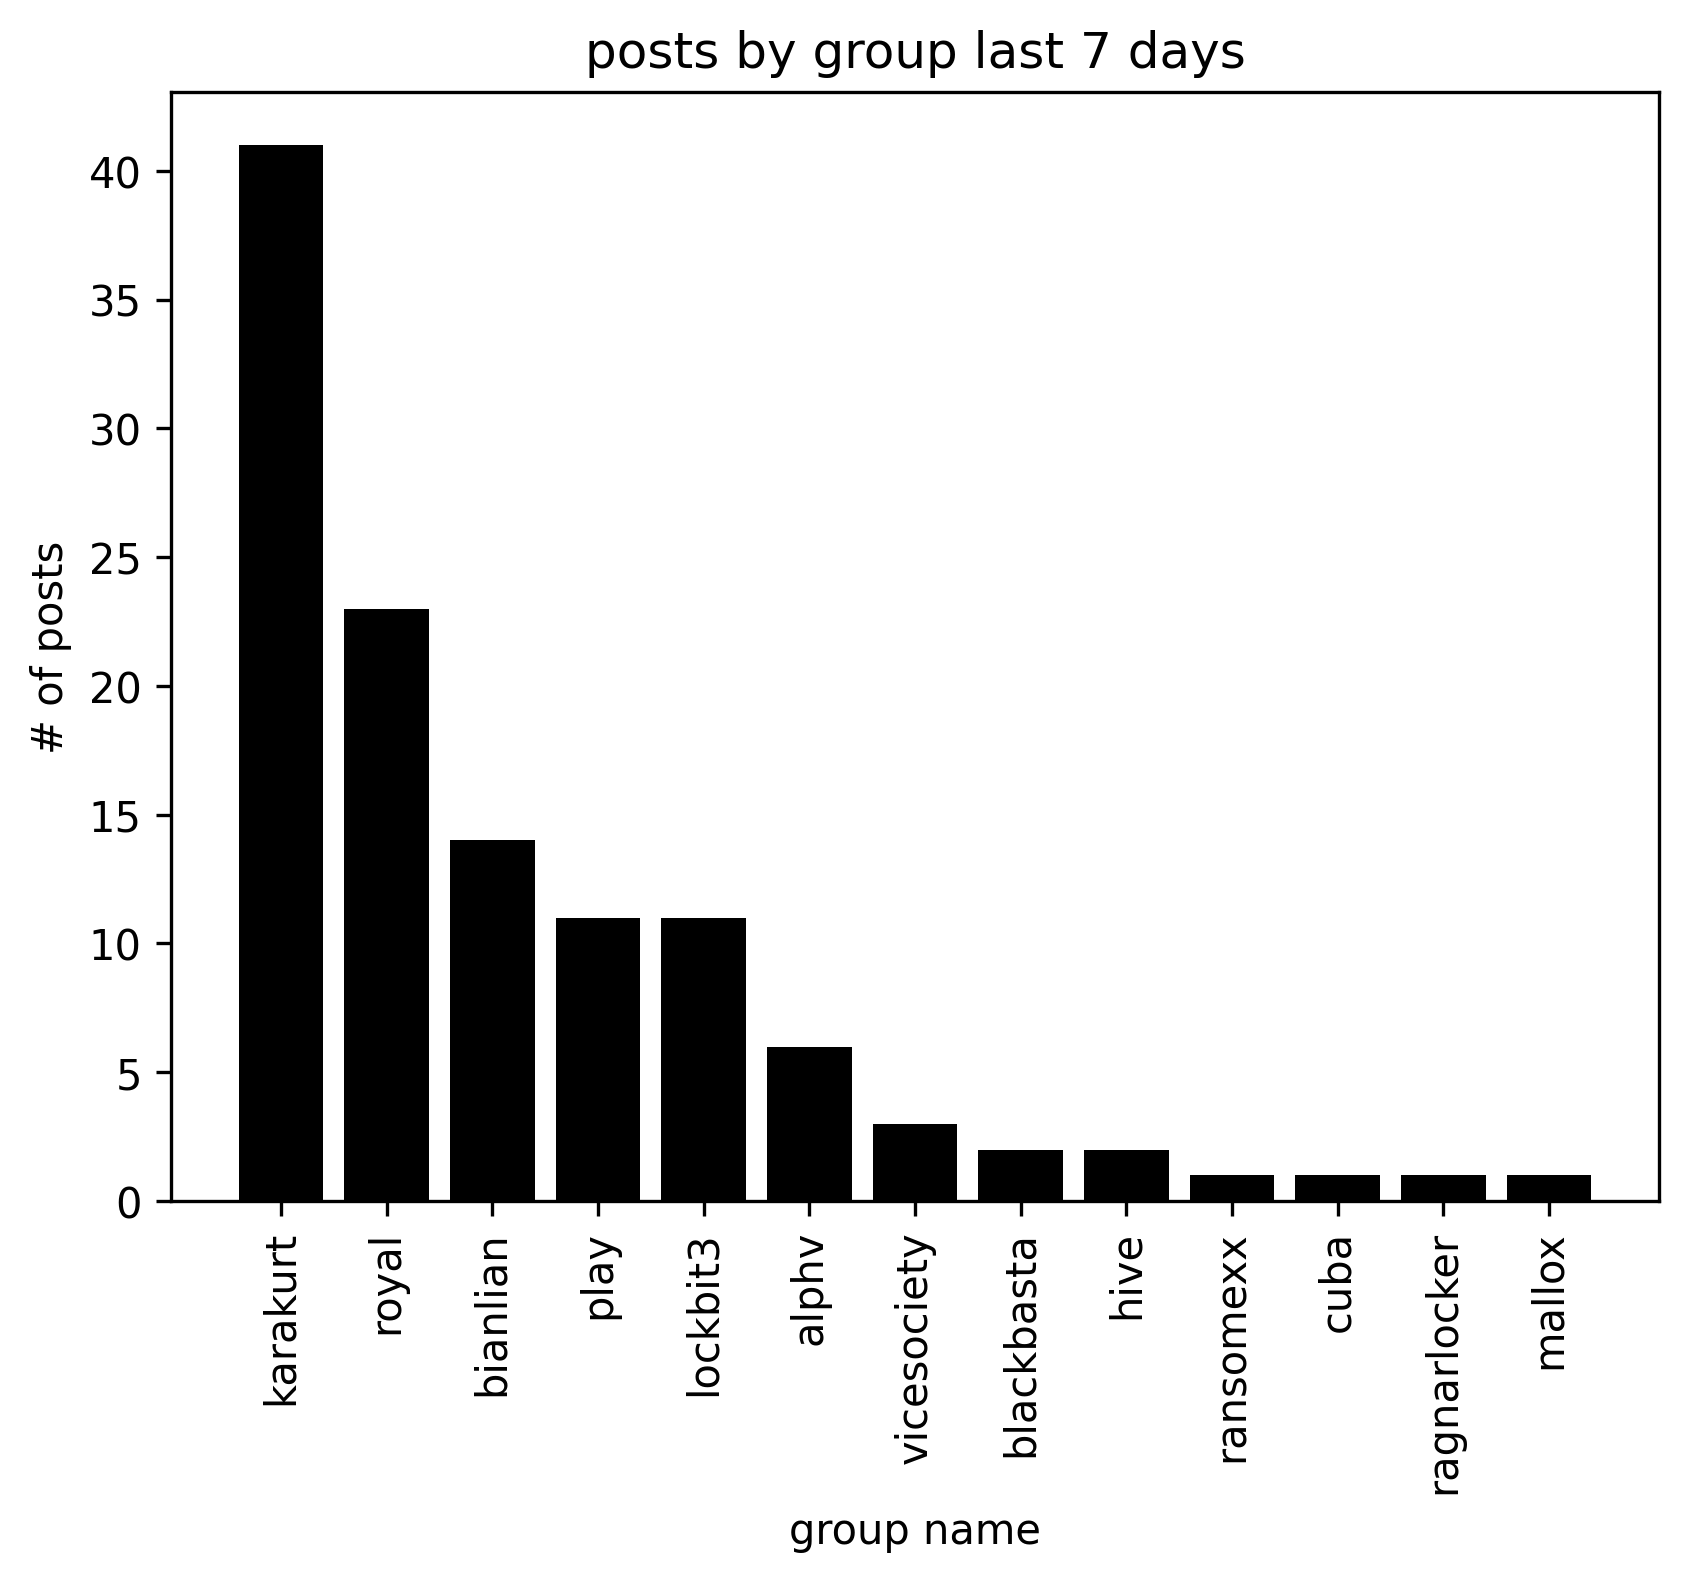
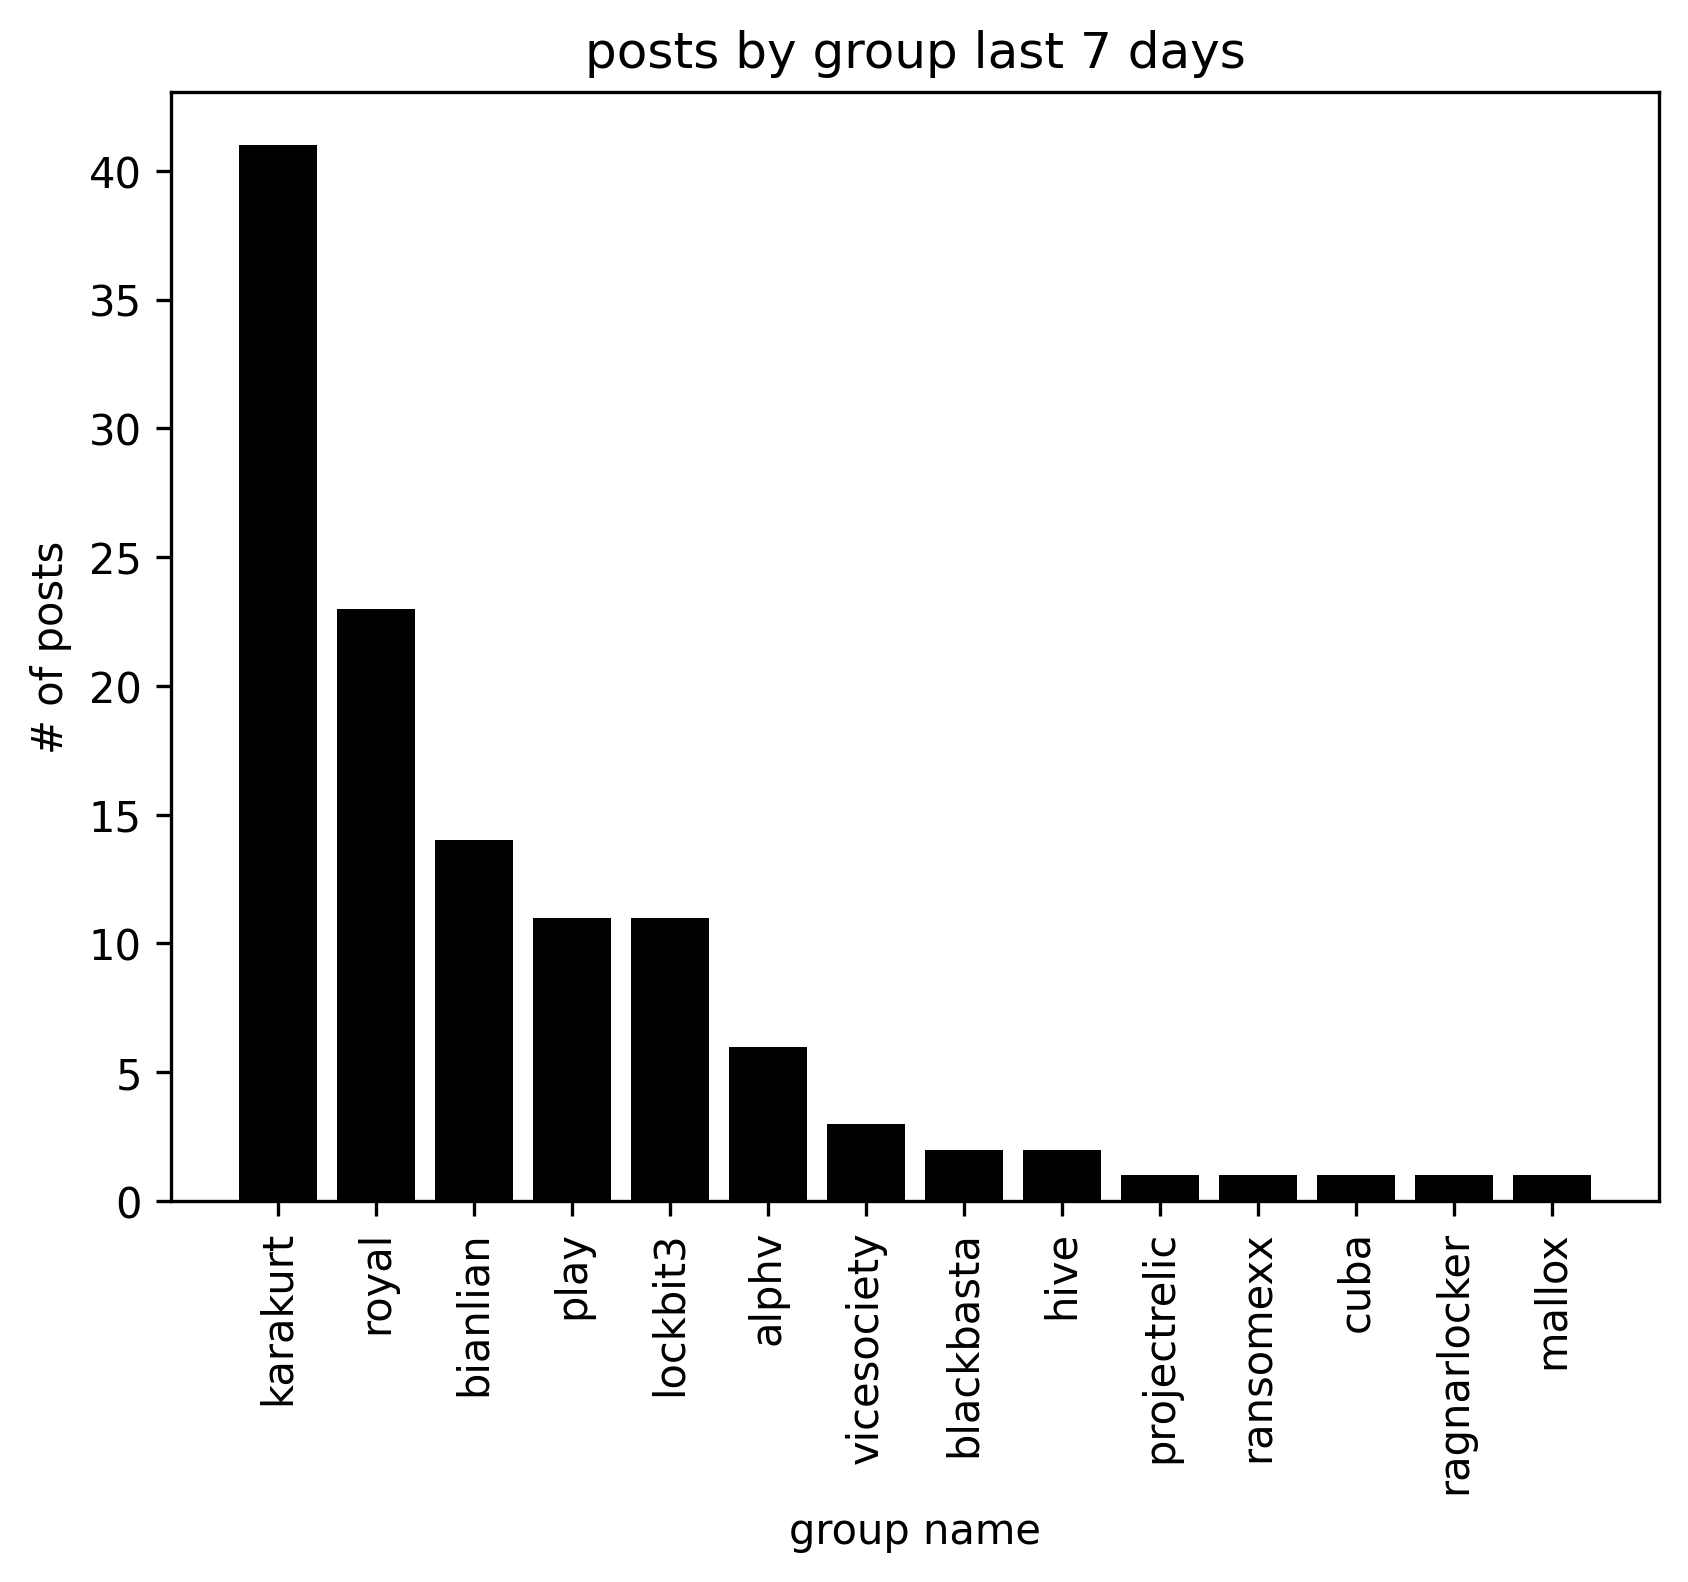
Add ProjectRelic description

diff --git a/parsers.py b/parsers.py
@@ -848,16 +848,16 @@ def royal():
     for post in posts:
         appender(post, 'royal')
 
-def projectrelic():
-    stdlog('parser: ' + 'projectrelic')
-    parser = '''
-    grep --no-filename '<div class="website">' source/projectrelic-*.html | cut -d '"' -f 4
-    '''
-    posts = runshellcmd(parser)
-    if len(posts) == 1:
-        errlog('projectrelic: ' + 'parsing fail')
-    for post in posts:
-        appender(post, 'projectrelic')
+#def projectrelic():
+#    stdlog('parser: ' + 'projectrelic')
+#    parser = '''
+#    grep --no-filename '<div class="website">' source/projectrelic-*.html | cut -d '"' -f 4
+#    '''
+#    posts = runshellcmd(parser)
+#    if len(posts) == 1:
+#        errlog('projectrelic: ' + 'parsing fail')
+#    for post in posts:
+#        appender(post, 'projectrelic')
 
 def medusa():
     stdlog('parser: ' + 'medusa')
@@ -950,3 +950,21 @@ def play():
     for post in posts:
         appender(post, 'play')
 
+def projectrelic():
+    stdlog('parser: ' + 'projectrelic')
+    for filename in os.listdir('source'):
+        try:
+            if filename.startswith('projectrelic-'):
+                html_doc='source/'+filename
+                file=open(html_doc,'r')
+                soup=BeautifulSoup(file,'html.parser')
+                divs_name=soup.find_all('div', {"class": "content"})
+                for div in divs_name:
+                    title = div.find('div', {'class': 'name'}).text.strip()
+                    description =  div.find('div', {'class': 'description'}).text.strip()
+                    stdlog(title)
+                    appender(title, 'projectrelic', description)
+                file.close()
+        except:
+            errlog('projectrelic: ' + 'parsing fail')
+            pass 

diff --git a/docs/allposts.md b/docs/allposts.md
@@ -11,6 +11,7 @@ _All `5623` posts_
 
 | date | title | group |
 |---|---|---|
+| 2022-12-18 | [`Doctors Center Hospital`](https://google.com/search?q=Doctors+Center+Hospital) | [projectrelic](profiles.md?id=projectrelic) |
 | 2022-12-18 | [`TLC`](https://google.com/search?q=TLC) | [karakurt](profiles.md?id=karakurt) |
 | 2022-12-18 | [`Bevolution Group`](https://google.com/search?q=Bevolution+Group) | [karakurt](profiles.md?id=karakurt) |
 | 2022-12-18 | [`OPUS IT Services`](https://google.com/search?q=OPUS+IT+Services) | [play](profiles.md?id=play) |
@@ -389,11 +390,10 @@ _All `5623` posts_
 | 2022-11-11 | [`https://www.qep.com`](https://google.com/search?q=https%3A%2F%2Fwww.qep.com) | [royal](profiles.md?id=royal) |
 | 2022-11-11 | [`Motional.com`](https://google.com/search?q=Motional.com) | [alphv](profiles.md?id=alphv) |
 | 2022-11-11 | [`BRAZILIAN PET FOODS`](https://google.com/search?q=BRAZILIAN+PET+FOODS) | [lv](profiles.md?id=lv) |
-| 2022-11-11 | [`http://willisklein.com`](https://google.com/search?q=http%3A%2F%2Fwillisklein.com) | [projectrelic](profiles.md?id=projectrelic) |
-| 2022-11-11 | [`http://broad-med.com`](https://google.com/search?q=http%3A%2F%2Fbroad-med.com) | [projectrelic](profiles.md?id=projectrelic) |
-| 2022-11-11 | [`http://turnercpas.com`](https://google.com/search?q=http%3A%2F%2Fturnercpas.com) | [projectrelic](profiles.md?id=projectrelic) |
-| 2022-11-11 | [`http://sterlingbattery.com`](https://google.com/search?q=http%3A%2F%2Fsterlingbattery.com) | [projectrelic](profiles.md?id=projectrelic) |
-| 2022-11-11 | [`http://doctorscenterhospital.com`](https://google.com/search?q=http%3A%2F%2Fdoctorscenterhospital.com) | [projectrelic](profiles.md?id=projectrelic) |
+| 2022-11-11 | [`Willis Klein`](https://google.com/search?q=Willis+Klein) | [projectrelic](profiles.md?id=projectrelic) |
+| 2022-11-11 | [`BroadMed Holding`](https://google.com/search?q=BroadMed+Holding) | [projectrelic](profiles.md?id=projectrelic) |
+| 2022-11-11 | [`Turner & Associates, LLP`](https://google.com/search?q=Turner+%26+Associates%2C+LLP) | [projectrelic](profiles.md?id=projectrelic) |
+| 2022-11-11 | [`Sterling Battery`](https://google.com/search?q=Sterling+Battery) | [projectrelic](profiles.md?id=projectrelic) |
 | 2022-11-11 | [`SOUTH-STAFFS-WATER.CO.UK FILES PART11 - water\10.80.74.231\ PUBLISHED`](https://google.com/search?q=SOUTH-STAFFS-WATER.CO.UK+FILES+PART11+-+water%5C10.80.74.231%5C+PUBLISHED) | [clop](profiles.md?id=clop) |
 | 2022-11-11 | [`LOESCHGROUP.DE FILES PART4 - 192.168.101.34\D$\PrivateOrdner\ PUBLISHED`](https://google.com/search?q=LOESCHGROUP.DE+FILES+PART4+-+192.168.101.34%5CD%24%5CPrivateOrdner%5C+PUBLISHED) | [clop](profiles.md?id=clop) |
 | 2022-11-11 | [`ORDEREXPRESS.COM.MX FILES PART5 - 10.10.2.224 PUBLISHED`](https://google.com/search?q=ORDEREXPRESS.COM.MX+FILES+PART5+-+10.10.2.224+PUBLISHED) | [clop](profiles.md?id=clop) |
@@ -5634,4 +5634,4 @@ _All `5623` posts_
 | 2020-06-10 | [`Leaks Company Birch Communications inc.`](https://google.com/search?q=Leaks+Company+Birch+Communications+inc.) | [ragnarlocker](profiles.md?id=ragnarlocker) |
 | 2020-01-12 | [`Windemuller`](https://google.com/search?q=Windemuller) | [lorenz](profiles.md?id=lorenz) |
 
-Last update : _Sunday 18/12/2022 16.17 (UTC)_
+Last update : _Sunday 18/12/2022 16.58 (UTC)_

diff --git a/docs/profiles.md b/docs/profiles.md
@@ -6739,11 +6739,11 @@ _`aka vsop`_
 
 | post | date | Description
 |---|---|---|
-| `http://doctorscenterhospital.com` | 11/11/2022 |   |
-| `http://sterlingbattery.com` | 11/11/2022 |   |
-| `http://turnercpas.com` | 11/11/2022 |   |
-| `http://broad-med.com` | 11/11/2022 |   |
-| `http://willisklein.com` | 11/11/2022 |   |
+| `Doctors Center Hospital` | 18/12/2022 | Doctors' Center Hospital is among the leaders in the hospital network of Puerto Rico. |
+| `Sterling Battery` | 11/11/2022 | Sterling Battery Co is a company that operates in the Automotive industry. |
+| `Turner & Associates, LLP` | 11/11/2022 | Outstanding service to our clients is what makes Turner & Associates, LLP one of the leading CPA firms in the State of Florida. Our combined 75 years of Partner |
+| `BroadMed Holding` | 11/11/2022 | BroadMed Holding (BMH) is a company that specializes in healthcare related businesses. The range of experience stretches to supply the medical field with a wide |
+| `Willis Klein` | 11/11/2022 | Founded in 1960, Willis Klein has multiple divisions providing decorative plumbing, door hardware, custom bathroom cabinets and furniture, commercial hardware. |
 
  --- 
 
@@ -8632,4 +8632,4 @@ _`aka fonix`_
  --- 
 
 
-Last update : _Sunday 18/12/2022 16.17 (UTC)_
+Last update : _Sunday 18/12/2022 16.58 (UTC)_

diff --git a/docs/recentposts.md b/docs/recentposts.md
@@ -2,6 +2,7 @@
 
 | Date | Title | Group |
 |---|---|---|
+| 2022-12-18 | [`Doctors Center Hospital`](https://google.com/search?q=Doctors+Center+Hospital) | [projectrelic](profiles.md?id=projectrelic) |
 | 2022-12-18 | [`TLC`](https://google.com/search?q=TLC) | [karakurt](profiles.md?id=karakurt) |
 | 2022-12-18 | [`Bevolution Group`](https://google.com/search?q=Bevolution+Group) | [karakurt](profiles.md?id=karakurt) |
 | 2022-12-18 | [`OPUS IT Services`](https://google.com/search?q=OPUS+IT+Services) | [play](profiles.md?id=play) |
@@ -201,6 +202,5 @@
 | 2022-12-05 | [`Grupo NGN`](https://google.com/search?q=Grupo+NGN) | [alphv](profiles.md?id=alphv) |
 | 2022-12-05 | [`moruga it`](https://google.com/search?q=moruga+it) | [alphv](profiles.md?id=alphv) |
 | 2022-12-05 | [`Austria Presse Agentur`](https://google.com/search?q=Austria+Presse+Agentur) | [play](profiles.md?id=play) |
-| 2022-12-05 | [`sentenia.net`](https://google.com/search?q=sentenia.net) | [lockbit3](profiles.md?id=lockbit3) |
 
-Last update : _Sunday 18/12/2022 16.17 (UTC)_
+Last update : _Sunday 18/12/2022 16.58 (UTC)_

diff --git a/docs/README.md b/docs/README.md
@@ -7,9 +7,9 @@ _december 18th, 2022_
 Check recent ransomware posts [`here`](recentposts.md)
 
 
-⏰ There have been `12` posts within the `last 24 hours`
+⏰ There have been `13` posts within the `last 24 hours`
 
-🕓 There have been `233` posts within the `month of december`
+🕓 There have been `234` posts within the `month of december`
 
 📅 There have been `869` posts within the `last 90 days`
 
@@ -31,5 +31,5 @@ _`20` sites using v2 onion services are no longer indexed - [support.torproject.
 
 
 
-Last update : _Sunday 18/12/2022 16.17 (UTC)_
+Last update : _Sunday 18/12/2022 16.58 (UTC)_
 
